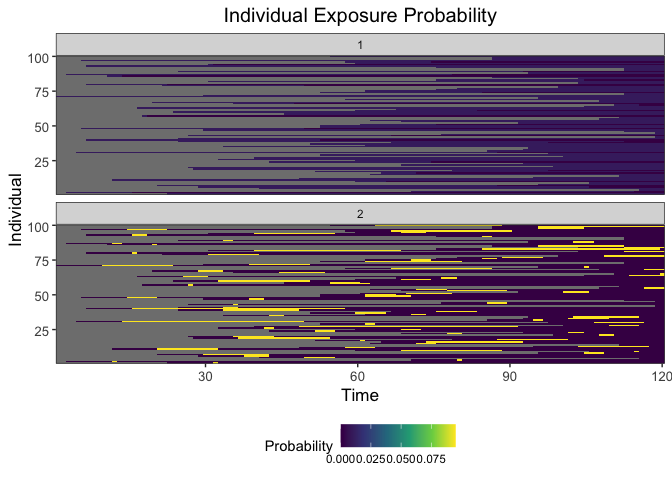
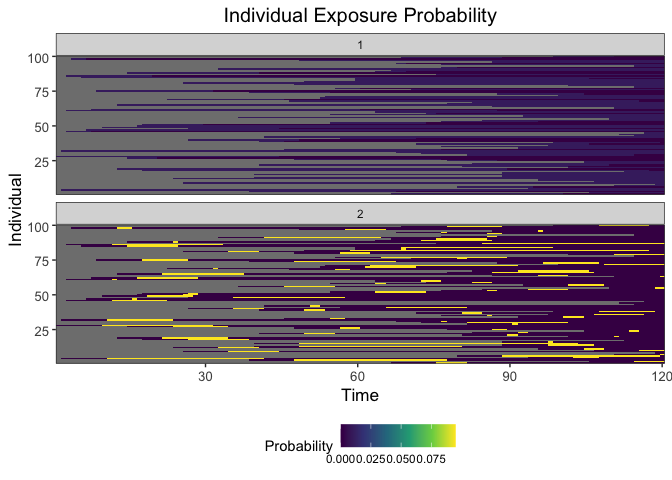
Adjusted serosim installation for case studies now that it is public

Changed region(s): [[0.0938, 0.0938, 1.0, 0.4062], [0.0938, 0.4688, 1.0, 0.7812]]

diff --git a/README.md b/README.md
@@ -17,7 +17,17 @@ cross-sectional serosurvey at the end of a 10 year simulation period for
 100 individuals who have either been vaccinated, infected, both or
 neither. We will set up each of the required arguments and models for
 the *runserosim* function in the order outlined in the methods section
-of the paper. We then run the simulation and examine its outputs
+of the paper. We then run the simulation and examine its outputs.
+
+There are two additional vignettes/case studies in the *vignettes*
+folder. Case study 1 provides an example of a longitudinal singular
+biomarker serological survey simulation structured around measles, a
+one-pathogen system with vaccination, but also applicable to other
+vaccine preventable diseases. Case study 2 provides an example of a
+cross-sectional multi-biomarker serological survey structured around
+diphtheria and pertussis, a two-pathogen system with bivalent
+vaccination, but also applicable to multi-pathogen systems with
+multivalent vaccines.
 
 # Installation
 
@@ -25,7 +35,8 @@ Load necessary packages:
 
 ``` r
 ## Install and load serosim 
-devtools::load_all("~/Documents/GitHub/serosim")
+devtools::install_github("AMenezes97/serosim")
+library(serosim)
 
 ## Load additional packages required 
 library(tidyverse)
@@ -78,10 +89,10 @@ summary(demography)
 
     ##        i              birth           removal        times       
     ##  Min.   :  1.00   Min.   :  1.00   Min.   :121   Min.   :  1.00  
-    ##  1st Qu.: 25.75   1st Qu.: 29.75   1st Qu.:121   1st Qu.: 30.75  
-    ##  Median : 50.50   Median : 60.00   Median :121   Median : 60.50  
-    ##  Mean   : 50.50   Mean   : 60.73   Mean   :121   Mean   : 60.50  
-    ##  3rd Qu.: 75.25   3rd Qu.: 93.25   3rd Qu.:121   3rd Qu.: 90.25  
+    ##  1st Qu.: 25.75   1st Qu.: 31.50   1st Qu.:121   1st Qu.: 30.75  
+    ##  Median : 50.50   Median : 65.50   Median :121   Median : 60.50  
+    ##  Mean   : 50.50   Mean   : 60.72   Mean   :121   Mean   : 60.50  
+    ##  3rd Qu.: 75.25   3rd Qu.: 88.25   3rd Qu.:121   3rd Qu.: 90.25  
     ##  Max.   :100.00   Max.   :119.00   Max.   :121   Max.   :120.00
 
 # 1.3 Exposure to biomarker mapping
@@ -377,39 +388,16 @@ head(res$kinetics_parameters)
     ## # A tibble: 6 × 7
     ##       i     t     x     b name    value realized_value
     ##   <int> <dbl> <dbl> <dbl> <chr>   <dbl>          <dbl>
-    ## 1     1    32     2     1 boost 2.68           2.68   
-    ## 2     1    32     2     1 wane  0.00112        0.00112
-    ## 3     2    12     2     1 boost 4.97           4.97   
-    ## 4     2    12     2     1 wane  0.00144        0.00144
-    ## 5     2    15     1     1 boost 4.44           4.44   
-    ## 6     2    15     1     1 wane  0.00390        0.00390
+    ## 1     1    81     2     1 boost 1.49           1.49   
+    ## 2     1    81     2     1 wane  0.00175        0.00175
+    ## 3     1   100     1     1 boost 2.79           2.79   
+    ## 4     1   100     1     1 wane  0.00416        0.00416
+    ## 5     3    67     1     1 boost 4.48           4.48   
+    ## 6     3    67     1     1 wane  0.00328        0.00328
 
 ``` r
 ## Combine plots as seen in paper 
-library(cowplot)
+# library(cowplot)
+# plot_grid(plot_exposure_prob(res$exposure_probabilities_long), plot_exposure_histories(res$exposure_histories_long), nrow=1, ncol=2, align = "hv", scale=c(.98,.98))
+# plot_grid(plot_biomarker_quantity(res$biomarker_states), plot_obs_biomarkers_one_sample(res$observed_biomarker_states), nrow=1, ncol=2, align = "hv", scale=c(.98,.98))
 ```
-
-    ## 
-    ## Attaching package: 'cowplot'
-
-    ## The following object is masked from 'package:patchwork':
-    ## 
-    ##     align_plots
-
-``` r
-plot_grid(plot_exposure_prob(res$exposure_probabilities_long), plot_exposure_histories(res$exposure_histories_long), nrow=1, ncol=2, align = "hv", scale=c(.98,.98))
-```
-
-![](README_files/figure-gfm/unnamed-chunk-10-7.png)<!-- -->
-
-``` r
-plot_grid(plot_biomarker_quantity(res$biomarker_states), plot_obs_biomarkers_one_sample(res$observed_biomarker_states), nrow=1, ncol=2, align = "hv", scale=c(.98,.98))
-```
-
-    ## Warning: Graphs cannot be vertically aligned unless the axis parameter is set.
-    ## Placing graphs unaligned.
-
-    ## Warning: Graphs cannot be horizontally aligned unless the axis parameter is set.
-    ## Placing graphs unaligned.
-
-![](README_files/figure-gfm/unnamed-chunk-10-8.png)<!-- -->
